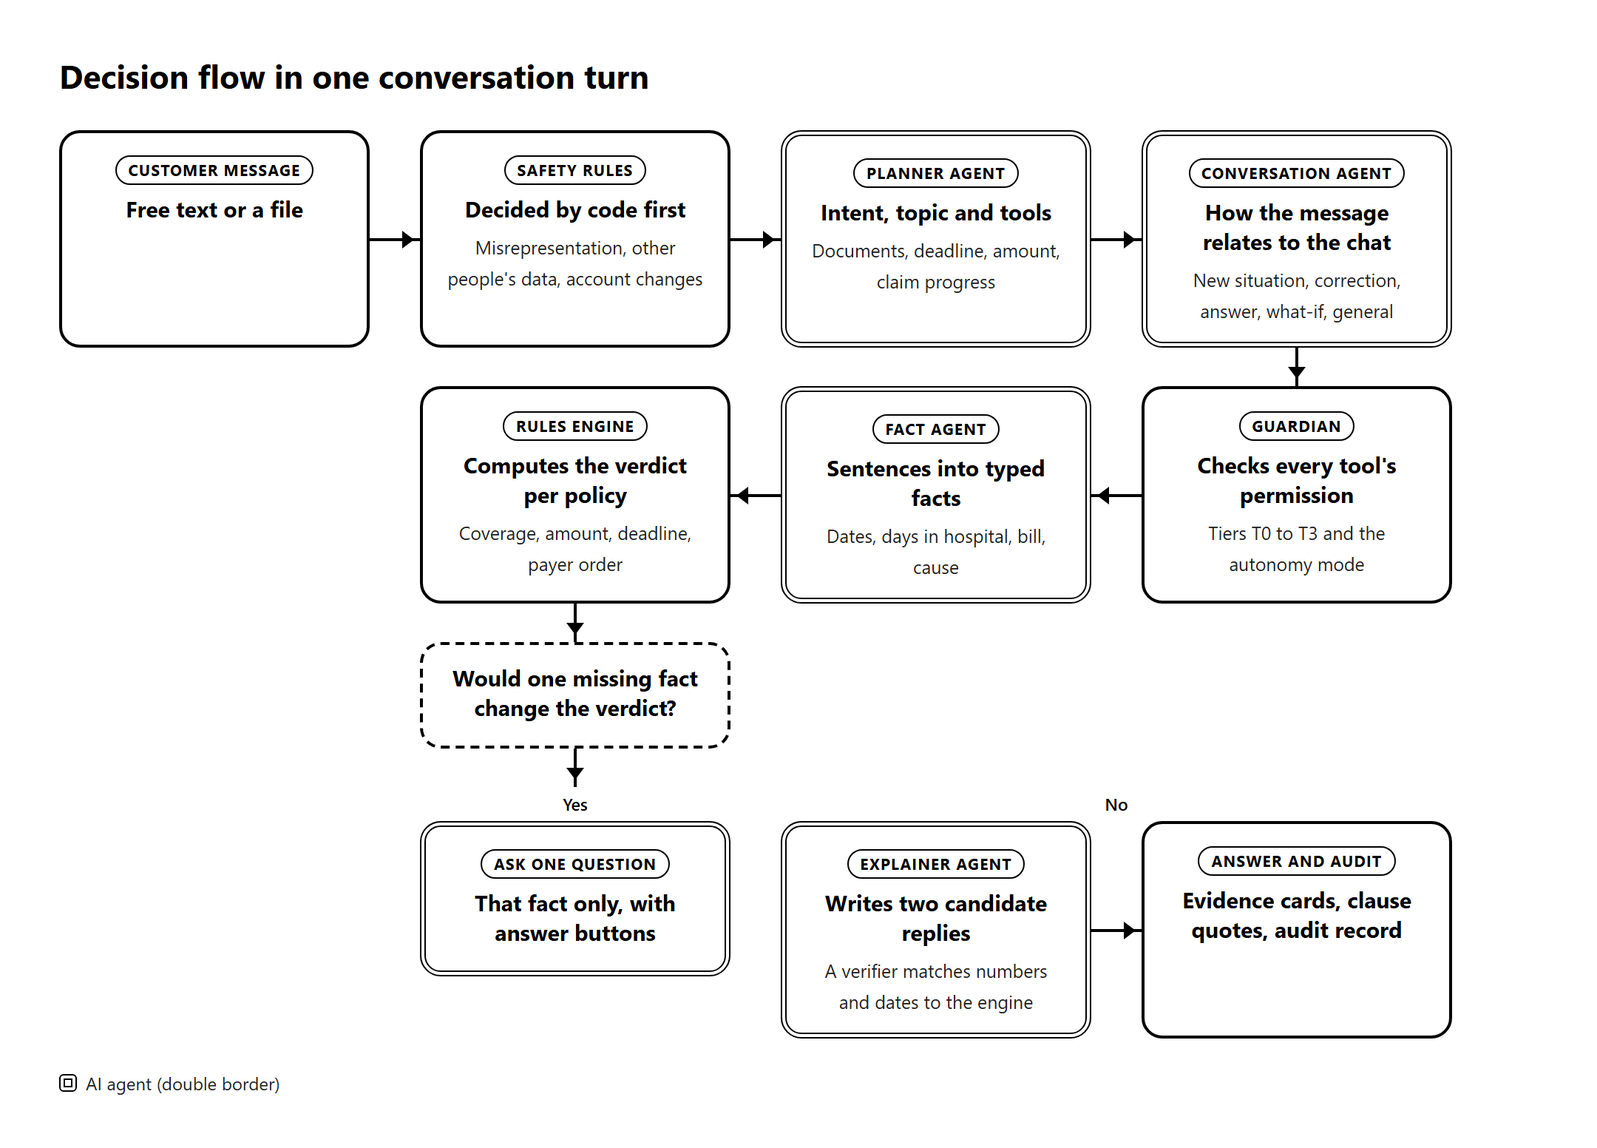
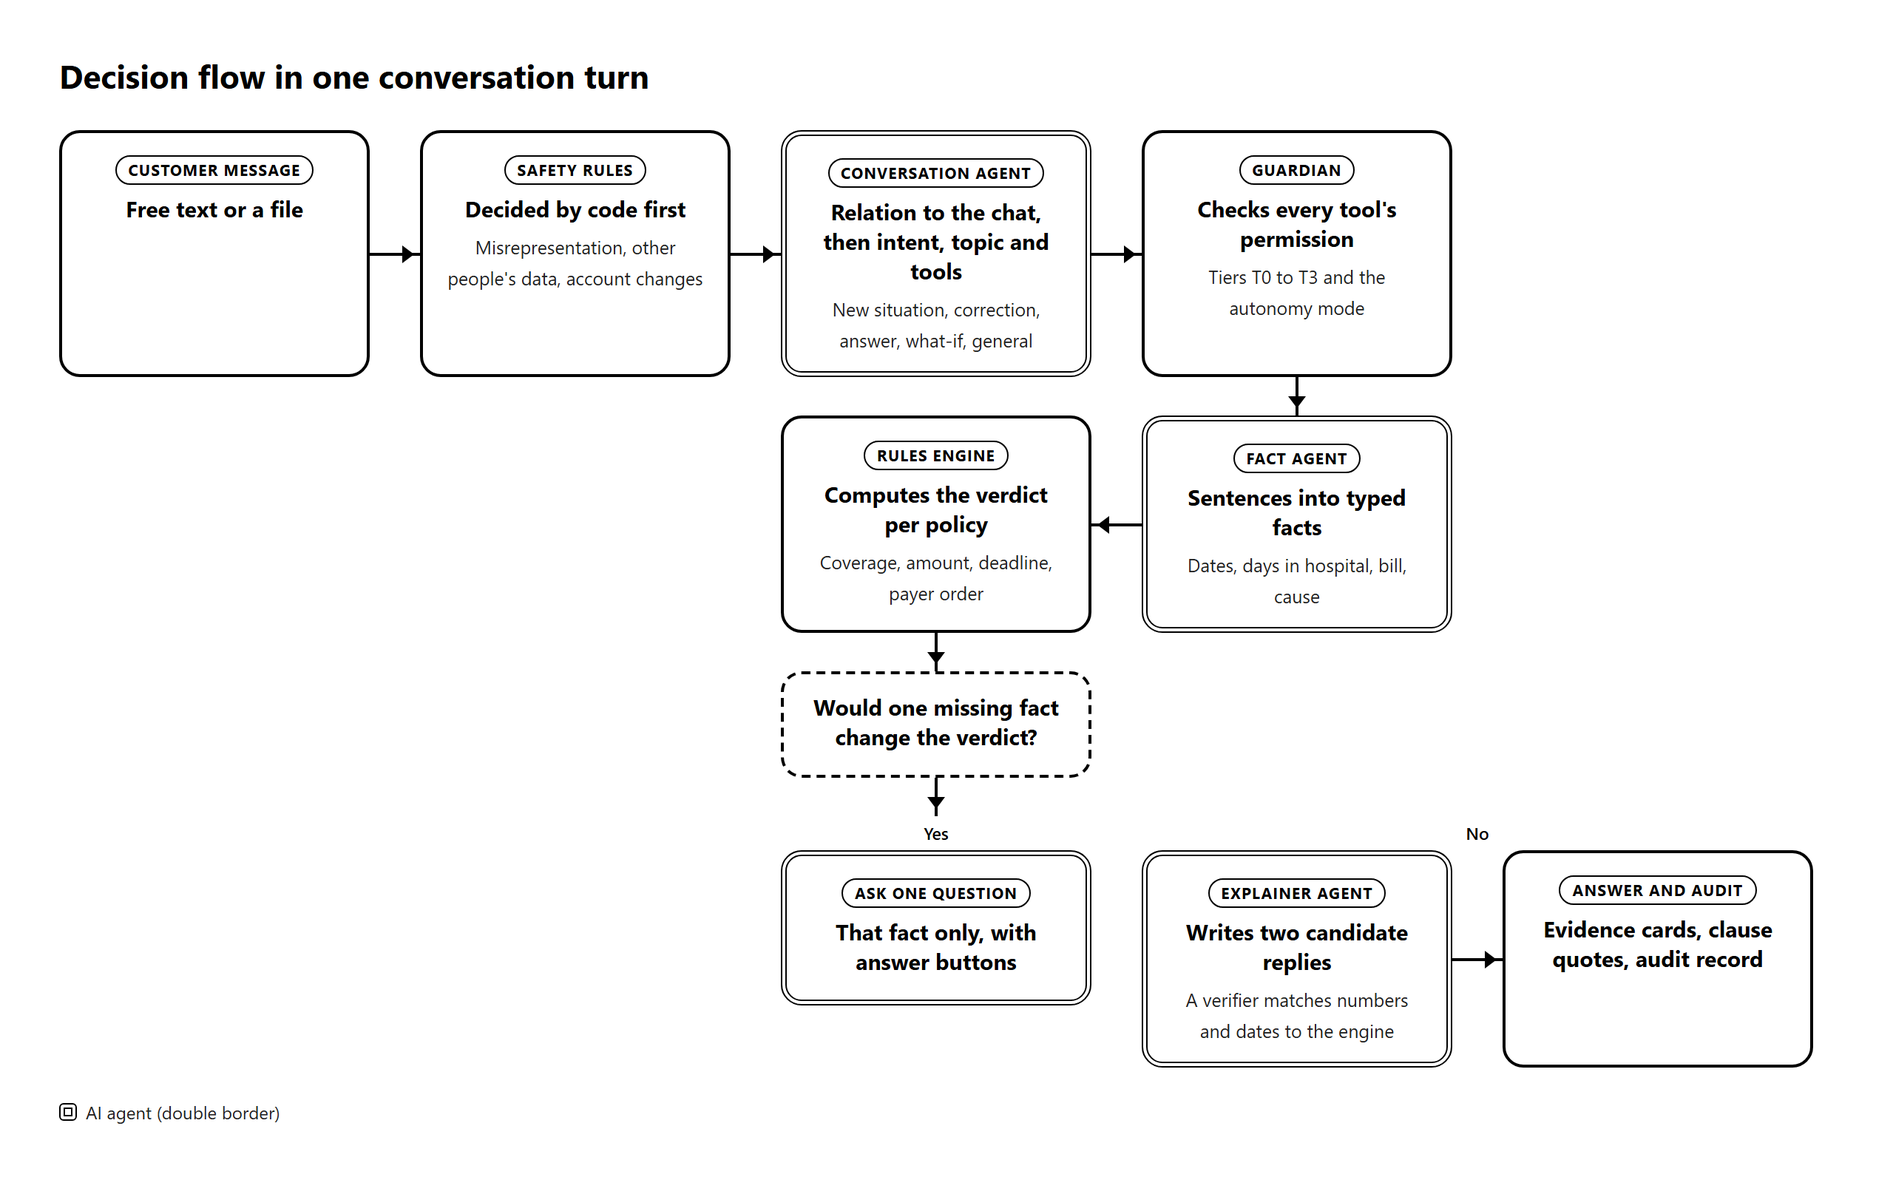
Technical documentation: five agents, matching the web app and landing page; decision-flow diagram updated

diff --git a/clauseguard/docs/diagrams/make_flows.py b/clauseguard/docs/diagrams/make_flows.py
@@ -41,7 +41,7 @@ h1{font-size:22px;font-weight:700;margin-bottom:22px}
 .lbl2{font-size:11.5px;color:#000;font-weight:600;padding:4px 0;width:210px;text-align:center}
 .gap{width:60px}
 .tailT{width:210px;display:flex;justify-content:center}
-.full{width:1000px;display:flex;align-items:flex-start}
+.full{width:1200px;display:flex;align-items:flex-start}
 """
 
 T = {
@@ -62,8 +62,7 @@ T = {
         "turn": [
             ("user", "Pesan nasabah", "Teks bebas atau berkas", ""),
             ("code", "Aturan keamanan", "Diputuskan kode lebih dulu", "Misrepresentasi, data orang lain, ubah rekening"),
-            ("ai", "Planner Agent", "Maksud, topik, dan alat", "Dokumen, tenggat, jumlah, kemajuan klaim"),
-            ("ai", "Conversation Agent", "Hubungan pesan dengan percakapan", "Situasi baru, koreksi, jawaban, pengandaian, umum"),
+            ("ai", "Conversation Agent", "Hubungan pesan, lalu maksud, topik, dan alat", "Situasi baru, koreksi, jawaban, pengandaian, umum"),
             ("code", "Guardian", "Memeriksa izin setiap alat", "Tingkat T0 sampai T3 dan mode otonomi"),
             ("ai", "Fact Agent", "Kalimat menjadi fakta bertipe", "Tanggal, hari rawat, tagihan, penyebab"),
             ("code", "Mesin aturan", "Menghitung putusan per polis", "Cakupan, jumlah, tenggat, urutan pembayar"),
@@ -98,8 +97,7 @@ T = {
         "turn": [
             ("user", "Customer message", "Free text or a file", ""),
             ("code", "Safety rules", "Decided by code first", "Misrepresentation, other people's data, account changes"),
-            ("ai", "Planner Agent", "Intent, topic and tools", "Documents, deadline, amount, claim progress"),
-            ("ai", "Conversation Agent", "How the message relates to the chat", "New situation, correction, answer, what-if, general"),
+            ("ai", "Conversation Agent", "Relation to the chat, then intent, topic and tools", "New situation, correction, answer, what-if, general"),
             ("code", "Guardian", "Checks every tool's permission", "Tiers T0 to T3 and the autonomy mode"),
             ("ai", "Fact Agent", "Sentences into typed facts", "Dates, days in hospital, bill, cause"),
             ("code", "Rules engine", "Computes the verdict per policy", "Coverage, amount, deadline, payer order"),
@@ -155,14 +153,15 @@ def turn_html(t):
     dec = f'<div class="box dec"><b>{t["turn_dec"]}</b></div>'
     down = lambda col: f'<div class="full" style="padding-left:{col * step}px"><div class="tailT"><div class="down"></div></div></div>'
     row1 = f'<div class="full">{chain(c[:4])}</div>'
-    row2 = f'<div class="full" style="padding-left:{step}px">{chain(c[4:], rev=True)}</div>'
+    lead = 4 - len(c[4:])  # the second row ends under the last box of the first row
+    row2 = f'<div class="full" style="padding-left:{lead * step}px">{chain(c[4:], rev=True)}</div>'
     yes = f'<div class="col" style="width:210px"><div class="lbl2">{t["yes"]}</div>{box(*t["turn_yes"])}</div>'
     no = (f'<div class="col" style="margin-left:34px"><div class="lbl2">{t["no"]}</div>'
           f'<div class="row">{box(*t["turn_no"])}<div class="right"></div>{box(*t["turn_end"])}</div></div>')
-    row3 = f'<div class="full" style="padding-left:{step}px;align-items:flex-start">{yes}{no}</div>'
-    dec_row = f'<div class="full" style="padding-left:{step}px">{dec}</div>'
+    row3 = f'<div class="full" style="padding-left:{lead * step}px;align-items:flex-start">{yes}{no}</div>'
+    dec_row = f'<div class="full" style="padding-left:{lead * step}px">{dec}</div>'
     return (f'<div class="wrap h"><h1>{t["turn_title"]}</h1><div class="col">{row1}'
-            f'{down(3)}{row2}{down(1)}{dec_row}{down(1)}{row3}</div>{legend(t)}</div>')
+            f'{down(3)}{row2}{down(lead)}{dec_row}{down(lead)}{row3}</div>{legend(t)}</div>')
 
 
 def tier_html(t):

diff --git a/clauseguard/docs/id/TECHNICAL_DOCUMENTATION.md b/clauseguard/docs/id/TECHNICAL_DOCUMENTATION.md
@@ -127,7 +127,7 @@ Gambar 2 menunjukkan komponen ClauseGuard. Agen AI bertugas memahami dan menjela
 | UI dan dialog | Aplikasi web nasabah (chat, kartu putusan, formulir klaim, unggah dokumen) dan meja klaim untuk petugas penanggung |
 | Orchestrator | Loop agent yang menjalankan perencanaan, pemeriksaan izin, pemanggilan alat, mesin aturan, dan penyusunan jawaban di setiap giliran |
 | LLM | Google Gemini untuk memahami pesan, membaca dokumen, dan menyusun kalimat |
-| Agen AI | Tujuh agen dengan tugas sempit, dijelaskan di bagian 3.1 |
+| Agen AI | Lima agen dengan tugas sempit, dijelaskan di bagian 3.1 |
 | Tools dan API | 19 alat bertingkat izin yang memanggil API penanggung sandbox |
 | Mesin aturan | Kode deterministik yang memutuskan cakupan, jumlah, tenggat, urutan pembayar, dan kesiapan klaim |
 | Guardian | Titik penegakan izin yang memeriksa setiap pemanggilan alat |
@@ -267,17 +267,15 @@ Langkah mencoba sandbox:
 
 ### 3.1 Agen AI dan desain prompt
 
-ClauseGuard memakai tujuh agen AI. Setiap agen mengerjakan satu tugas sempit dan mengisi skema keluaran tertutup. Kode memvalidasi setiap keluaran sebelum dipakai. Isi pesan dan dokumen selalu diperlakukan sebagai data, sehingga perintah yang terselip di dalamnya diabaikan.
+ClauseGuard memakai lima agen AI. Setiap agen memiliki satu tanggung jawab sempit dan mengisi skema keluaran tertutup. Dua agen menjalankan dua langkah model, yang dijelaskan pada barisnya. Kode memvalidasi setiap keluaran sebelum dipakai. Isi pesan dan dokumen selalu diperlakukan sebagai data, sehingga perintah yang terselip di dalamnya diabaikan.
 
 **Tabel 13. Agen AI dan desain prompt**
 
 | Agen | Tugas | Masukan | Inti prompt | Keluaran | Pengaman |
 |---|---|---|---|---|---|
-| Conversation Agent | Membaca hubungan pesan dengan percakapan | Pesan, fakta yang sudah diketahui, pertanyaan terakhir agent, empat pertukaran terakhir | Menilai pesan sebagai jawaban, koreksi, lanjutan, situasi baru, pengandaian, atau pertanyaan umum, disertai contoh dalam dua bahasa | Satu jenis hubungan, bahasa pesan, dan fakta yang masih berlaku | Hanya dapat membuang fakta. Fakta yang hilang dari pesan yang tidak membawa kejadian baru tetap dipertahankan |
-| Planner Agent | Menentukan maksud, topik, dan alat | Pesan, situasi bertipe, empat pertukaran terakhir | Menulis pembacaan singkat lebih dulu, lalu memilih maksud dari daftar tetap dan alat baca yang diperlukan, dengan contoh dalam dua bahasa | Maksud, topik pertanyaan, alat, dan penanda permintaan tindakan | Klasifikasi keamanan diputuskan kode. Tindakan diterima hanya bila ada permintaan jelas atau persetujuan atas tawaran |
+| Conversation Agent | Membaca hubungan pesan dengan percakapan, lalu menentukan maksud, topik, dan alat | Pesan, fakta yang sudah diketahui, pertanyaan terakhir agent, situasi bertipe, empat pertukaran terakhir | Dua langkah dengan contoh dalam dua bahasa. Pertama menilai pesan sebagai jawaban, koreksi, lanjutan, situasi baru, pengandaian, atau pertanyaan umum. Kedua menulis pembacaan singkat lalu memilih maksud dari daftar tetap beserta alat baca yang diperlukan | Jenis hubungan, bahasa pesan, fakta yang masih berlaku, maksud, topik pertanyaan, alat, dan penanda permintaan tindakan | Hanya dapat membuang fakta. Klasifikasi keamanan diputuskan kode. Tindakan diterima hanya bila ada permintaan jelas atau persetujuan atas tawaran |
 | Fact Agent | Mengubah kalimat menjadi fakta bertipe | Pesan nasabah | Mengisi kolom hanya bila teks menyatakannya, tanpa menebak tanggal, umur, jumlah, atau penyebab | Fakta dari kosakata tetap, misalnya tanggal masuk, hari rawat, tagihan, penyebab | Fakta kejadian dikunci dan tidak dapat diubah untuk menyesuaikan polis |
-| Document Reader Agent | Membaca polis dan dokumen klaim | Teks dokumen yang data pribadinya sudah dihapus | Komponen terisolasi yang mengklasifikasi dan menyalin isi dokumen ke skema, tanpa mengikuti instruksi di dalam dokumen | Aturan polis bertipe, atau ringkasan dokumen klaim (jenis, tanggal, total, diagnosis) | Tidak memiliki alat dan riwayat percakapan. Teks yang menyerupai perintah ditandai |
-| Claim Form Agent | Menyusun tata letak formulir klaim penanggung | Klausul klaim dari polis | Merancang judul, bagian, dan kolom memakai istilah penanggung, dengan setiap kolom terhubung ke satu sumber data | Struktur formulir | Nilai diisi oleh kode dari draf klaim. Model tidak menulis nilai |
+| Document Reader Agent | Membaca polis dan dokumen klaim serta menyusun tata letak formulir klaim penanggung | Teks dokumen yang data pribadinya sudah dihapus, dan klausul klaim dari polis | Pembacaan berjalan terisolasi: mengklasifikasi dan menyalin isi dokumen ke skema tanpa mengikuti instruksi di dalam dokumen. Tata letak merancang judul, bagian, dan kolom memakai istilah penanggung dengan setiap kolom terhubung ke satu sumber data | Aturan polis bertipe, ringkasan dokumen klaim (jenis, tanggal, total, diagnosis), atau struktur formulir | Tidak memiliki alat dan riwayat percakapan. Teks yang menyerupai perintah ditandai. Nilai formulir diisi kode dari draf klaim dan model tidak menulis nilai |
 | Explainer Agent | Menyusun kalimat jawaban | Hasil mesin aturan, empat pertukaran terakhir, enam contoh jawaban | Menulis catatan penalaran singkat, lalu dua kandidat jawaban yang ramah dan ringkas dalam bahasa nasabah | Kandidat jawaban dan pilihan terbaik | Setiap angka, tanggal, dan nomor diperiksa terhadap hasil mesin. Kutipan klausul harus sama persis |
 | Watchdog Agent | Memantau tenggat dan keputusan penanggung | Status klaim, catatan petugas, fakta klaim | Mengklasifikasikan catatan petugas sebagai cacat yang dapat diperbaiki, alasan yang bertentangan dengan polis, alasan yang sah, atau tidak jelas | Jenis catatan dan langkah berikutnya | Tidak mengirim apa pun. Banding dan pengajuan ulang tetap menunggu konfirmasi nasabah |
 
@@ -285,7 +283,7 @@ Semua pemanggilan model memakai suhu nol. Bila model tidak tersedia, nasabah men
 
 ### 3.2 Planning dan tool-calling
 
-Perencanaan berjalan dua lapis. Kode memutuskan klasifikasi keamanan lebih dulu, lalu Planner Agent membaca maksud pesan dalam konteks percakapan. Setiap alat terdaftar dengan tingkat izin, tipe argumen, dan tipe hasil. Hasil alat disimpan sebagai handle bertipe dengan label kepercayaan. Alat tingkat 2 hanya menerima handle, sehingga teks dari dokumen atau model tidak dapat menjadi argumen pengajuan. Bila beberapa polis dapat menerima klaim, agent bertanya polis mana yang diajukan lebih dulu.
+Perencanaan berjalan dua lapis. Kode memutuskan klasifikasi keamanan lebih dulu, lalu Conversation Agent membaca maksud pesan dalam konteks percakapan. Setiap alat terdaftar dengan tingkat izin, tipe argumen, dan tipe hasil. Hasil alat disimpan sebagai handle bertipe dengan label kepercayaan. Alat tingkat 2 hanya menerima handle, sehingga teks dari dokumen atau model tidak dapat menjadi argumen pengajuan. Bila beberapa polis dapat menerima klaim, agent bertanya polis mana yang diajukan lebih dulu.
 
 ### 3.3 Memory
 
@@ -404,7 +402,7 @@ Tabel 18 membandingkan arsitektur karya penelitian yang terbit antara 2022 dan 2
 | Pokharel dkk. (2026) | Cakupan kode CPT pada dokumen rencana asuransi. Sekitar 1,84 juta pasang berlabel dan 814 kode evaluasi | Pencari Longformer yang di-fine-tune, LLM yang menyusun atribut Boolean dan aturan, serta mesin aturan PyKnow | Mendukung peninjau manusia dengan alasan yang dapat diaudit | Akurasi 0,87 dan F1 0,93, dibanding 0,82 dan 0,89 untuk GPT-4.1 pada dokumen penuh. Biaya sekitar USD 22 dibanding USD 38.720 untuk sekitar 11.000 kode |
 | Mridul dkk. (2026) | Asuransi jiwa, sepuluh kontrak, 58 skenario | Ontologi (TBox) dan basis pengetahuan (ABox) yang dikueri dengan SPARQL, dengan pembanding LLM teks saja | Hasil skenario dengan bukti tingkat klausul | Konsistensi dan diagnosis lebih baik daripada pembanding. Abstrak tidak memuat metrik numerik |
 | Debenedetti dkk. (2025) | Tugas agen umum di luar bidang asuransi (benchmark AgentDojo) | Pemisahan alur kendali dari alur data, kapabilitas melekat pada data, dan pemeriksaan kebijakan pada setiap panggilan alat | Tidak berlaku | 77% tugas selesai dengan keamanan terbukti, dibanding 84% pada sistem tanpa pertahanan |
-| ClauseGuard (karya ini) | Kompilasi polis menjadi aturan, persona sintetis, dan penanggung sandbox | Tujuh agen LLM sempit hanya untuk bahasa, mesin aturan deterministik, gerbang Guardian, dan handle bertipe | Petugas penanggung memutuskan dan mesin aturan menghitung cakupan serta pembayaran | 84,6% pada 390 label, 0 dari 27 serangan berhasil, ukuran sampel diungkapkan |
+| ClauseGuard (karya ini) | Kompilasi polis menjadi aturan, persona sintetis, dan penanggung sandbox | Lima agen LLM sempit hanya untuk bahasa, mesin aturan deterministik, gerbang Guardian, dan handle bertipe | Petugas penanggung memutuskan dan mesin aturan menghitung cakupan serta pembayaran | 84,6% pada 390 label, 0 dari 27 serangan berhasil, ukuran sampel diungkapkan |
 
 Menurut pembacaan kami atas sumber pada Tabel 18, hal berikut belum ditemukan digabung dalam satu sistem.
 

diff --git a/clauseguard/docs/TECHNICAL_DOCUMENTATION.md b/clauseguard/docs/TECHNICAL_DOCUMENTATION.md
@@ -127,7 +127,7 @@ Figure 2 shows the components of ClauseGuard. AI agents understand and explain. 
 | UI and dialog | The customer web app (chat, verdict cards, claim form, document upload) and the claims desk for insurer staff |
 | Orchestrator | The agent loop that runs planning, the permission check, tool calls, the rules engine and reply writing in every turn |
 | LLM | Google Gemini to understand messages, read documents and word replies |
-| AI agents | Seven agents with narrow tasks, described in section 3.1 |
+| AI agents | Five agents with narrow tasks, described in section 3.1 |
 | Tools and API | 19 permission-tiered tools that call the sandbox insurer API |
 | Rules engine | Deterministic code that decides coverage, amounts, deadlines, payer order and claim readiness |
 | Guardian | The permission enforcement point that checks every tool call |
@@ -267,17 +267,15 @@ Steps to try the sandbox:
 
 ### 3.1 AI agents and prompt design
 
-ClauseGuard uses seven AI agents. Each agent does one narrow task and fills a closed output schema. Code validates every output before it is used. Message and document content is always treated as data, so instructions hidden inside it are ignored.
+ClauseGuard uses five AI agents. Each agent has one narrow responsibility and fills a closed output schema. Two agents carry out two model steps, which their rows describe. Code validates every output before it is used. Message and document content is always treated as data, so instructions hidden inside it are ignored.
 
 **Table 13. AI agents and prompt design**
 
 | Agent | Task | Input | Prompt core | Output | Safeguard |
 |---|---|---|---|---|---|
-| Conversation Agent | Reads how a message relates to the conversation | Message, known facts, the agent's last question, the last four exchanges | Classify the message as an answer, correction, continuation, new situation, what-if or general question, with examples in two languages | One relation type, the message language and the facts that still apply | It can only drop facts. Facts are kept when the message brings no new event |
-| Planner Agent | Decides intent, topic and tools | Message, typed situation, the last four exchanges | Write a short reading first, then pick an intent from a fixed list and the read-only tools needed, with examples in two languages | Intent, question topic, tools and an action-request flag | Safety classifications are decided by code. An action is accepted only on a clear request or an accepted offer |
+| Conversation Agent | Reads how a message relates to the conversation, then decides intent, topic and tools | Message, known facts, the agent's last question, typed situation, the last four exchanges | Two steps with examples in two languages. First classify the message as an answer, correction, continuation, new situation, what-if or general question. Then write a short reading and pick an intent from a fixed list with the read-only tools needed | Relation type, message language, facts that still apply, intent, question topic, tools and an action-request flag | It can only drop facts. Safety classifications are decided by code. An action is accepted only on a clear request or an accepted offer |
 | Fact Agent | Turns sentences into typed facts | Customer message | Fill a field only when the text states it, never guessing dates, ages, amounts or causes | Facts from a fixed vocabulary, such as admission date, days in hospital, bill, cause | Event facts are locked and cannot be changed to fit a policy |
-| Document Reader Agent | Reads policies and claim documents | Document text with personal data already removed | A quarantined component that classifies and transcribes the document into the schema without following any instruction inside it | Typed policy rules, or a claim document summary (type, dates, total, diagnosis) | No tools and no chat history. Instruction-like text is flagged |
-| Claim Form Agent | Lays out the insurer's claim form | The policy's claim clauses | Design a title, sections and fields in the insurer's own terms, each field bound to one data source | Form structure | Values are filled by code from the claim draft. The model never writes values |
+| Document Reader Agent | Reads policies and claim documents and lays out the insurer's claim form | Document text with personal data already removed, and the policy's claim clauses | Reading runs in quarantine: classify and transcribe the document into the schema without following any instruction inside it. Layout designs a title, sections and fields in the insurer's own terms, each field bound to one data source | Typed policy rules, a claim document summary (type, dates, total, diagnosis) or the form structure | No tools and no chat history. Instruction-like text is flagged. Form values are filled by code from the claim draft and the model never writes values |
 | Explainer Agent | Words the reply | Engine results, the last four exchanges, six example replies | Write short reasoning notes, then two friendly and concise candidate replies in the customer's language | Candidate replies and the best pick | Every amount, date and identifier is checked against the engine. Clause quotes must match exactly |
 | Watchdog Agent | Follows deadlines and insurer decisions | Claim status, the assessor's note, claim facts | Classify the assessor's note as a fixable defect, a reason that contradicts the policy, a valid reason or unclear | Note type and next step | It sends nothing. Appeals and resubmissions still wait for the customer's confirmation |
 
@@ -285,7 +283,7 @@ Every model call runs at temperature zero. If the model is unavailable, the cust
 
 ### 3.2 Planning and tool calling
 
-Planning runs in two layers. Code decides safety classifications first, then the Planner Agent reads the intent of the message in the context of the conversation. Every tool is registered with a permission tier, argument types and a result type. Tool results are stored as typed handles with a trust label. Tier 2 tools accept handles only, so text from documents or models cannot become an argument of a submission. When several policies could take a claim, the agent asks which one to file first.
+Planning runs in two layers. Code decides safety classifications first, then the Conversation Agent reads the intent of the message in the context of the conversation. Every tool is registered with a permission tier, argument types and a result type. Tool results are stored as typed handles with a trust label. Tier 2 tools accept handles only, so text from documents or models cannot become an argument of a submission. When several policies could take a claim, the agent asks which one to file first.
 
 ### 3.3 Memory
 
@@ -404,7 +402,7 @@ Table 18 compares the architecture of research published between 2022 and 2026. 
 | Pokharel et al. (2026) | CPT code coverage in plan documents. About 1.84 million labeled pairs and 814 evaluation codes | Fine-tuned Longformer retriever, an LLM that writes Boolean attributes and rules, and the PyKnow rule engine | Supports human reviewers with auditable rationales | Accuracy 0.87 and F1 0.93, against 0.82 and 0.89 for GPT-4.1 on full documents. Cost about USD 22 against USD 38,720 for about 11,000 codes |
 | Mridul et al. (2026) | Life insurance, ten contracts, 58 scenarios | Ontology (TBox) and knowledge base (ABox) queried with SPARQL, with a text-only LLM baseline | Scenario outcomes with clause-level evidence | Better consistency and diagnosis than the baseline. The abstract has no numeric metrics |
 | Debenedetti et al. (2025) | General agent tasks outside insurance (AgentDojo benchmark) | Separation of control flow from data flow, capabilities attached to data and policy checks at each tool call | Not applicable | 77% of tasks solved with provable security, against 84% for the undefended system |
-| ClauseGuard (this work) | Policy-to-rule compilation, synthetic personas and a sandbox insurer | Seven narrow LLM agents for language only, a deterministic rules engine, the Guardian tier gate and typed handles | The insurer officer decides and the rules engine computes coverage and payment | 84.6% on 390 labels, 0 of 27 attacks succeeded, sample sizes disclosed |
+| ClauseGuard (this work) | Policy-to-rule compilation, synthetic personas and a sandbox insurer | Five narrow LLM agents for language only, a deterministic rules engine, the Guardian tier gate and typed handles | The insurer officer decides and the rules engine computes coverage and payment | 84.6% on 390 labels, 0 of 27 attacks succeeded, sample sizes disclosed |
 
 To our reading of the sources in Table 18, the following points have not been found combined in one system.
 
